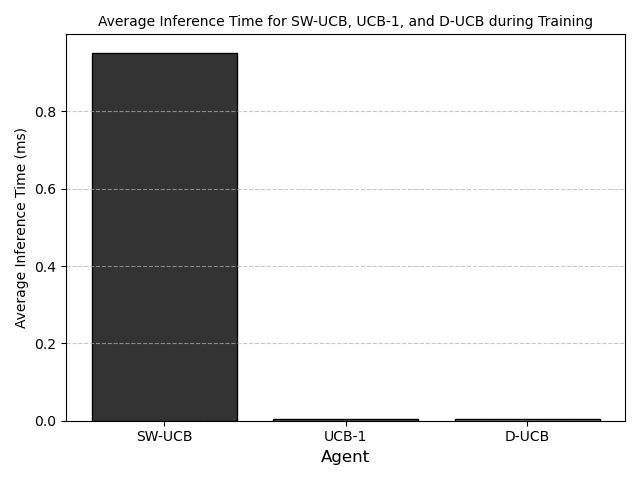
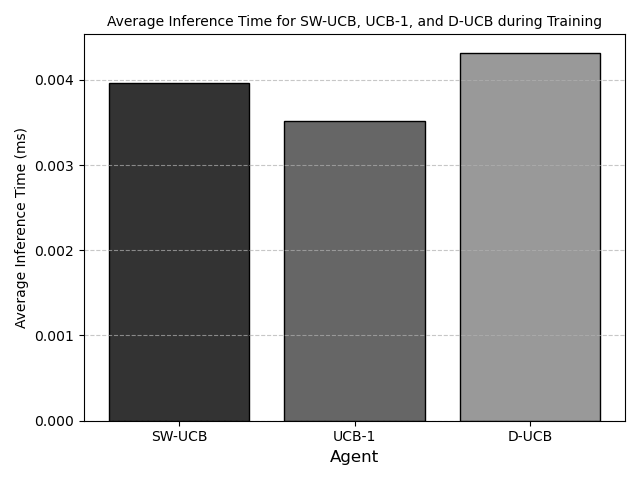
update

diff --git a/UCBtest.py b/UCBtest.py
@@ -1,3 +1,5 @@
+import csv
+
 import numpy as np
 import matplotlib.pyplot as plt
 from tqdm import tqdm
@@ -9,7 +11,7 @@ import time
 def SWUCBExperiment():
     np.random.seed(0)
     env = ROFARS_v1()
-    max_window_size = 100
+    max_window_size = 1000
     best_window_size = 1
     best_reward = -np.inf
 
@@ -17,7 +19,7 @@ def SWUCBExperiment():
     total_rewards = []
 
     # Find the best sliding window in the training session
-    for window_size in range(1, max_window_size + 1):
+    for window_size in range(100, max_window_size + 1):
         agent = SlidingWindowUCBAgent(window_size=window_size * 60)
         agent.initialize(env.n_camera)
 
@@ -380,85 +382,85 @@ def robustness_test(agent_type, budget_ratios):
 
     return budget_ratios, rewards
 
-if __name__ == '__main__':
-    budget_ratios = [0.1, 0.3, 0.5, 0.7, 0.9]
-
-    # Pass budget_ratios as an argument to the robustness_test() function
-    budget_ratios, rewards_ucb1 = robustness_test(1, budget_ratios)
-    budget_ratios, rewards_sw_ucb = robustness_test(2, budget_ratios)
-    budget_ratios, rewards_d_ucb = robustness_test(3, budget_ratios)
-    budget_ratios, rewards_simple_baseline = robustness_test(4, budget_ratios)
-    budget_ratios, rewards_strong_baseline = robustness_test(5, budget_ratios)
-
-    # Plot the results
-    plt.figure(figsize=(8, 6))
-    plt.plot(budget_ratios, rewards_ucb1, marker='o', markersize=8,
-             linestyle='-', linewidth=2, label="UCB-1")
-    plt.plot(budget_ratios, rewards_sw_ucb, marker='s', markersize=8,
-             linestyle='--', linewidth=2, label="SW-UCB")
-    plt.plot(budget_ratios, rewards_d_ucb, marker='^', markersize=8,
-             linestyle='-.', linewidth=2, label="D-UCB")
-    plt.plot(budget_ratios, rewards_simple_baseline, marker='x', markersize=8,
-             linestyle=':', linewidth=2, label="Simple Baseline")
-    plt.plot(budget_ratios, rewards_strong_baseline, marker='D', markersize=8,
-             linestyle=(0, (5, 1)), linewidth=2, label="Strong Baseline")
-
-    plt.xlabel("Budget Ratio", fontsize=14)
-    plt.ylabel("Total Reward", fontsize=14)
-    plt.title("Robustness Test [Testing] for UCB-1, SW-UCB, and D-UCB", fontsize=16)
-    plt.legend(fontsize=12)
-    plt.grid(alpha=0.3)
-    plt.xticks(fontsize=12)
-    plt.yticks(fontsize=12)
-    plt.tight_layout()
-    plt.savefig("Robustness_Test_Academic_testing.png")
-    plt.show()
-
-
 # if __name__ == '__main__':
-#     print("Enter the agent you want to test: ")
-#     inp = int(input('1. UCB-1 \n2. SW-UCB \n3. D-UCB\n4. Time experiment\n'))
-#     if inp == 1:
-#         SWUCBOpt(1)
-#     elif inp == 2:
-#         inp2 = int(input('Find optimal window size? (1. Yes, 2. No)'))
-#         if inp2 == 1:
-#             SWUCBExperiment()
-#         elif inp2 == 2:
-#             SWUCBOpt(2)
-#     elif inp == 3:
-#         inp2 = int(input('Find optimal gamma? (1. Yes, 2. No)'))
-#         if inp2 == 1:
-#             DiscountedUCBExperiment()
-#         elif inp2 == 2:
-#             SWUCBOpt(3)
-#     elif inp == 4:
-#         sw_ucb_inference_times = timeexperiment(2)
-#         ucb1_inference_times = timeexperiment(1)
-#         d_ucb_inference_times = timeexperiment(3)
+#     budget_ratios = [0.1, 0.3, 0.5, 0.7, 0.9]
 #
-#         # Plot the average inference times for each agent as a bar plot
-#         agents = ['SW-UCB', 'UCB-1', 'D-UCB']
-#         avg_inference_times = [sw_ucb_inference_times,
-#                                ucb1_inference_times,
-#                                d_ucb_inference_times]
+#     # Pass budget_ratios as an argument to the robustness_test() function
+#     budget_ratios, rewards_ucb1 = robustness_test(1, budget_ratios)
+#     budget_ratios, rewards_sw_ucb = robustness_test(2, budget_ratios)
+#     budget_ratios, rewards_d_ucb = robustness_test(3, budget_ratios)
+#     budget_ratios, rewards_simple_baseline = robustness_test(4, budget_ratios)
+#     budget_ratios, rewards_strong_baseline = robustness_test(5, budget_ratios)
 #
-#         print(avg_inference_times)
 #
-#         # Black and white color palette
-#         colors = ['#333333', '#666666', '#999999']
+#     # Plot the results
+#     plt.figure(figsize=(8, 6))
+#     plt.plot(budget_ratios, rewards_ucb1, marker='o', markersize=8,
+#              linestyle='-', linewidth=2, label="UCB-1")
+#     plt.plot(budget_ratios, rewards_sw_ucb, marker='s', markersize=8,
+#              linestyle='--', linewidth=2, label="SW-UCB")
+#     plt.plot(budget_ratios, rewards_d_ucb, marker='^', markersize=8,
+#              linestyle='-.', linewidth=2, label="D-UCB")
+#     plt.plot(budget_ratios, rewards_simple_baseline, marker='x', markersize=8,
+#              linestyle=':', linewidth=2, label="Simple Baseline")
+#     plt.plot(budget_ratios, rewards_strong_baseline, marker='D', markersize=8,
+#              linestyle=(0, (5, 1)), linewidth=2, label="Strong Baseline")
 #
-#         plt.bar(agents, avg_inference_times, color=colors, edgecolor='black',
-#                 linewidth=1)
-#         plt.xlabel('Agent', fontsize=12)
-#         plt.ylabel('Average Inference Time (ms)', fontsize=10)
-#         plt.title(
-#             'Average Inference Time for SW-UCB, UCB-1, and D-UCB during Training',
-#             fontsize=10)
-#         plt.grid(axis='y', linestyle='--', alpha=0.7)
-#         plt.tight_layout()
-#         plt.savefig('UCB_AverageInferenceTime_Training_BW_ms.png')
-#         plt.show()
+#     plt.xlabel("Budget Ratio", fontsize=14)
+#     plt.ylabel("Total Reward", fontsize=14)
+#     plt.title("Robustness Test [Testing] for UCB-1, SW-UCB, and D-UCB", fontsize=16)
+#     plt.legend(fontsize=12)
+#     plt.grid(alpha=0.3)
+#     plt.xticks(fontsize=12)
+#     plt.yticks(fontsize=12)
+#     plt.tight_layout()
+#     plt.savefig("Robustness_Test_Academic_testing.png")
+#     plt.show()
+
+
+if __name__ == '__main__':
+    print("Enter the agent you want to test: ")
+    inp = int(input('1. UCB-1 \n2. SW-UCB \n3. D-UCB\n4. Time experiment\n'))
+    if inp == 1:
+        SWUCBOpt(1)
+    elif inp == 2:
+        inp2 = int(input('Find optimal window size? (1. Yes, 2. No)'))
+        if inp2 == 1:
+            SWUCBExperiment()
+        elif inp2 == 2:
+            SWUCBOpt(2)
+    elif inp == 3:
+        inp2 = int(input('Find optimal gamma? (1. Yes, 2. No)'))
+        if inp2 == 1:
+            DiscountedUCBExperiment()
+        elif inp2 == 2:
+            SWUCBOpt(3)
+    elif inp == 4:
+        sw_ucb_inference_times = timeexperiment(2)
+        ucb1_inference_times = timeexperiment(1)
+        d_ucb_inference_times = timeexperiment(3)
+
+        # Plot the average inference times for each agent as a bar plot
+        agents = ['SW-UCB', 'UCB-1', 'D-UCB']
+        avg_inference_times = [sw_ucb_inference_times, ucb1_inference_times,
+                               d_ucb_inference_times]
+
+        print(avg_inference_times)
+
+        # Black and white color palette
+        colors = ['#333333', '#666666', '#999999']
+
+        plt.bar(agents, avg_inference_times, color=colors, edgecolor='black',
+                linewidth=1)
+        plt.xlabel('Agent', fontsize=12)
+        plt.ylabel('Average Inference Time (ms)', fontsize=10)
+        plt.title(
+            'Average Inference Time for SW-UCB, UCB-1, and D-UCB during Training',
+            fontsize=10)
+        plt.grid(axis='y', linestyle='--', alpha=0.7)
+        plt.tight_layout()
+        plt.savefig('UCB_AverageInferenceTime_Training_BW_ms.png')
+        plt.show()
 
 """
 Baseline:

diff --git a/agents.py b/agents.py
@@ -30,13 +30,15 @@ class baselineAgent:
         return action
 
 class SlidingWindowUCBAgent:
-    def __init__(self, window_size=100):
+    def __init__(self, window_size=1000):
         self.counts = None
         self.values = None
         self.c = 3
         self.window_size = window_size
         self.recent_rewards = None
         self.recent_counts = None
+        self.recent_rewards_sum = None
+        self.recent_counts_sum = None
         self.total_time_steps = 0
 
     def initialize(self, n_actions):
@@ -44,6 +46,8 @@ class SlidingWindowUCBAgent:
         self.values = np.zeros(n_actions)
         self.recent_rewards = [deque(maxlen=self.window_size) for _ in range(n_actions)]
         self.recent_counts = [deque(maxlen=self.window_size) for _ in range(n_actions)]
+        self.recent_rewards_sum = np.zeros(n_actions)
+        self.recent_counts_sum = np.zeros(n_actions)
 
     def get_action(self):
         if self.counts.min() == 0:
@@ -52,26 +56,29 @@ class SlidingWindowUCBAgent:
             action[idx] = 1
         else:
             min_time_steps = min(self.total_time_steps, self.window_size)
-            recent_counts_sum = np.array([sum(counts) for counts in self.recent_counts])
-            ucb_values = self.values + self.c * np.sqrt(2 * np.log(min_time_steps) / recent_counts_sum)
+            ucb_values = self.values + self.c * np.sqrt(2 * np.log(min_time_steps) / self.recent_counts_sum)
             action = ucb_values
         return action
-
 
     def update(self, actions, state):
         self.total_time_steps += 1
         for i, reward in enumerate(state):
             if reward >= 0:
                 self.counts[i] += 1
+                self.values[i] = self.values[i] + (1 / self.counts[i]) * (
+                            reward - self.values[i])
+
+                if len(self.recent_rewards[i]) == self.window_size:
+                    self.recent_rewards_sum[i] -= self.recent_rewards[i][0]
+                    self.recent_counts_sum[i] -= self.recent_counts[i][0]
+
                 self.recent_rewards[i].append(reward)
                 self.recent_counts[i].append(1)
-
-                # Calculate the average reward based on the sliding window
-                avg_reward = sum(self.recent_rewards[i]) / sum(self.recent_counts[i])
-                self.values[i] = avg_reward
+                self.recent_rewards_sum[i] += reward
+                self.recent_counts_sum[i] += 1
             else:
                 self.counts[i] += 0
-                self.recent_counts[i].append(0)
+
 
 class DiscountedUCBAgent:
     def __init__(self, gamma=0.9):
